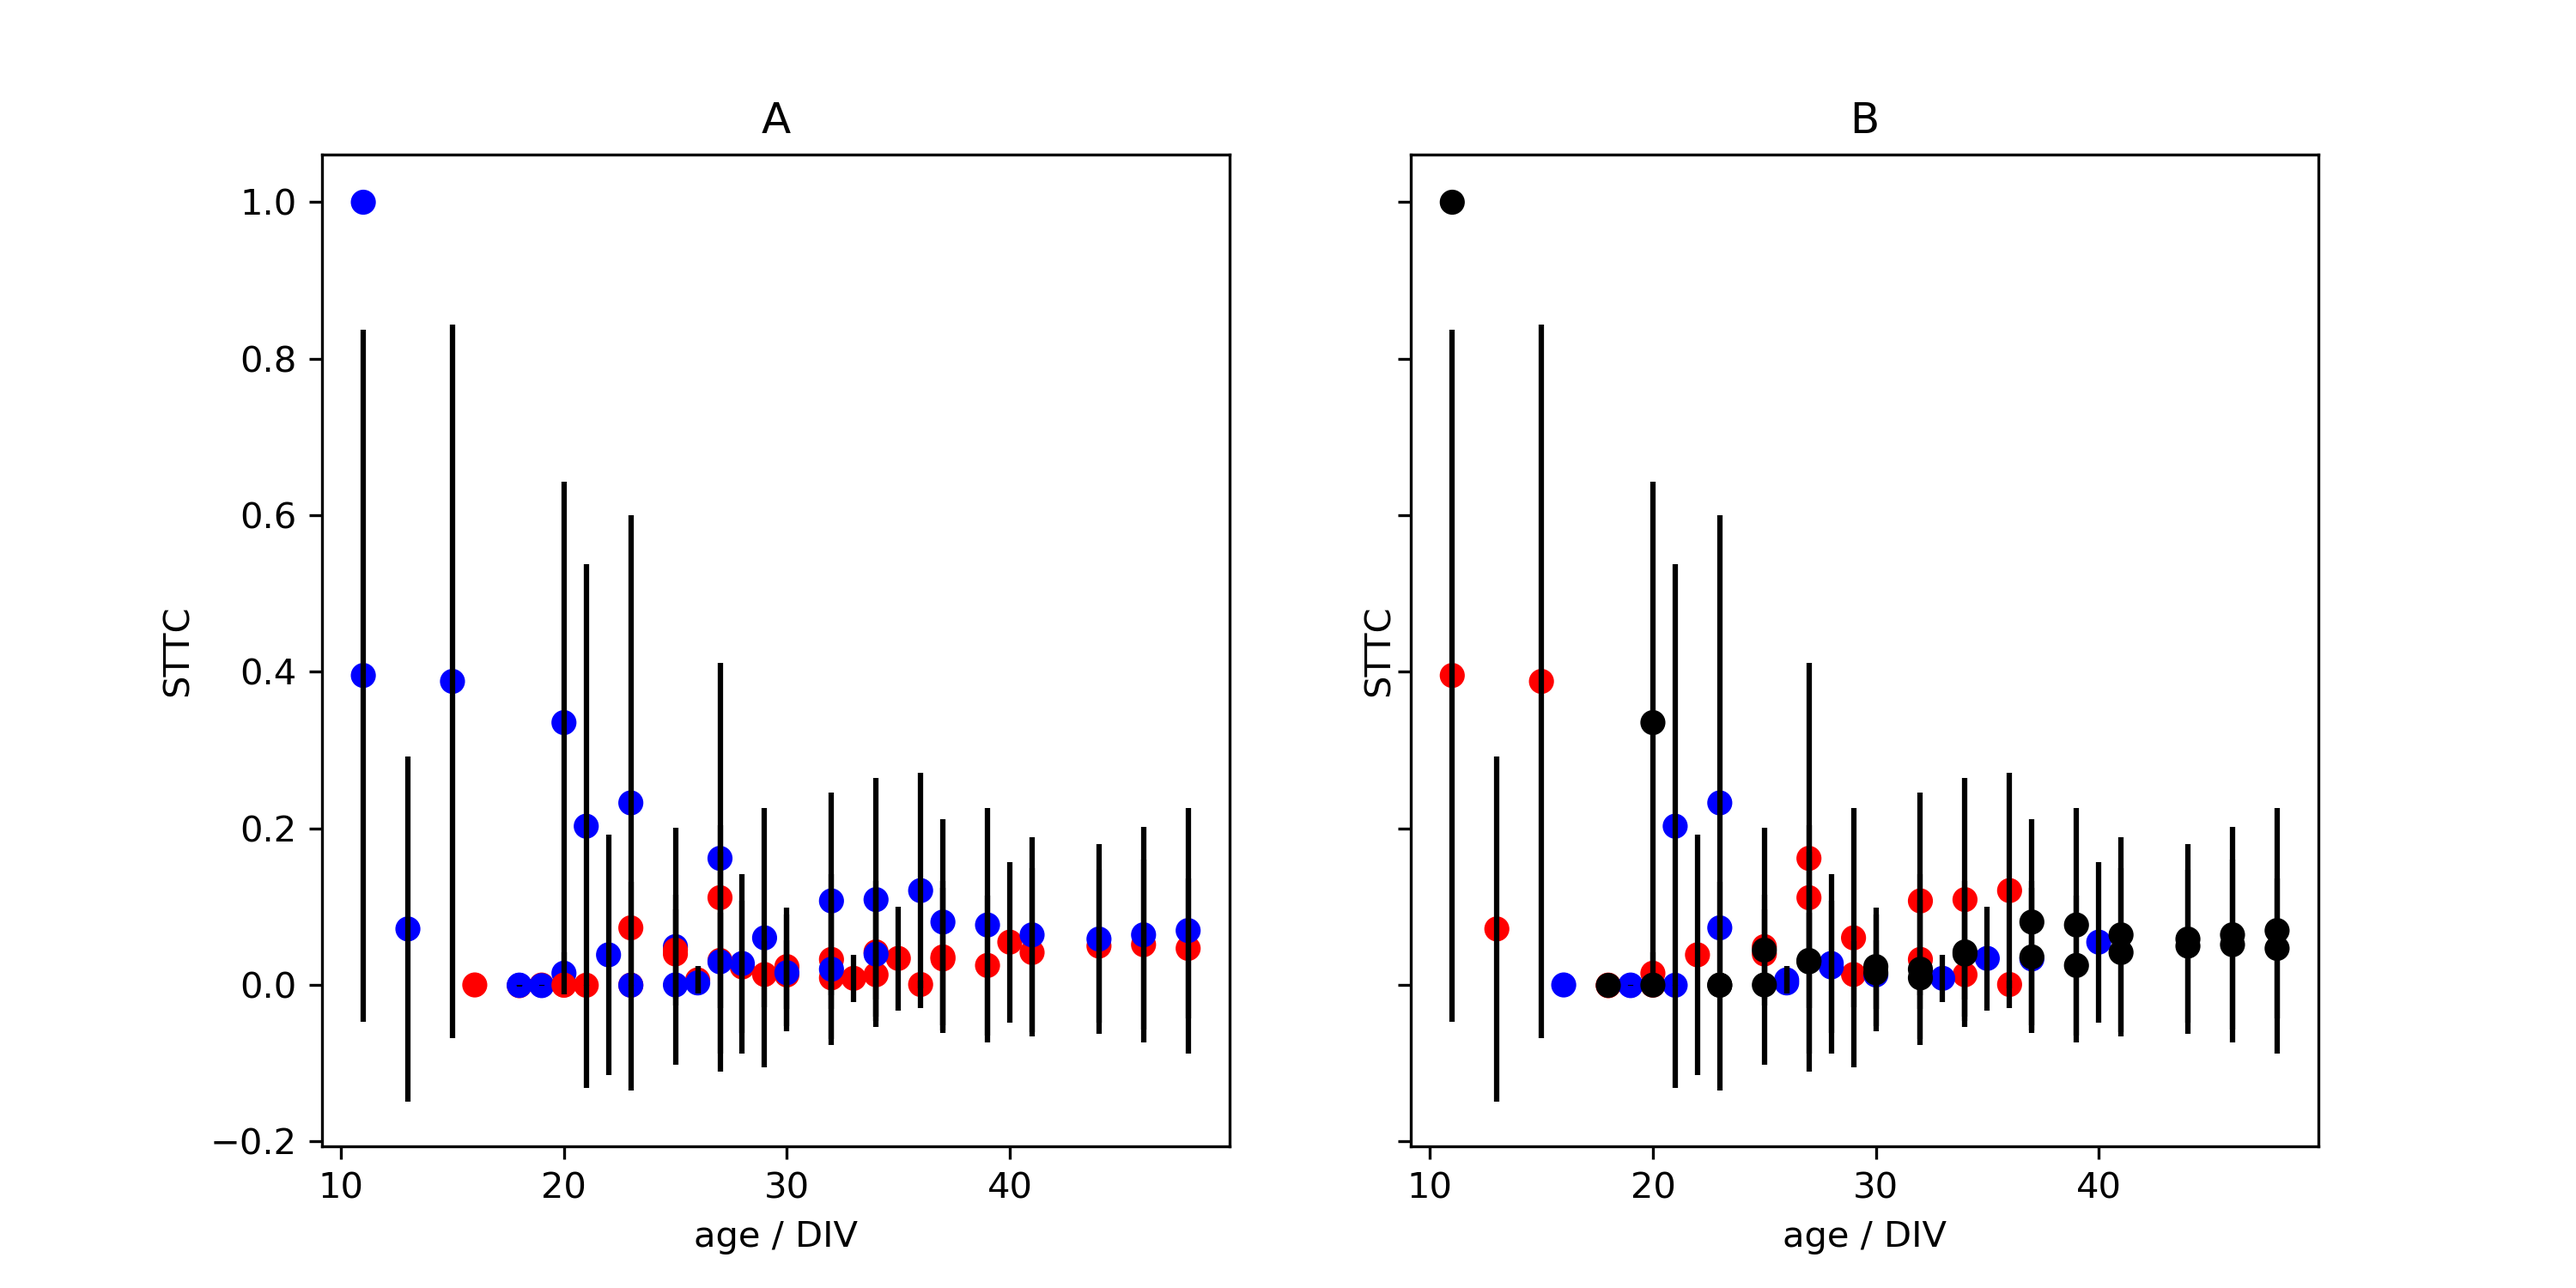
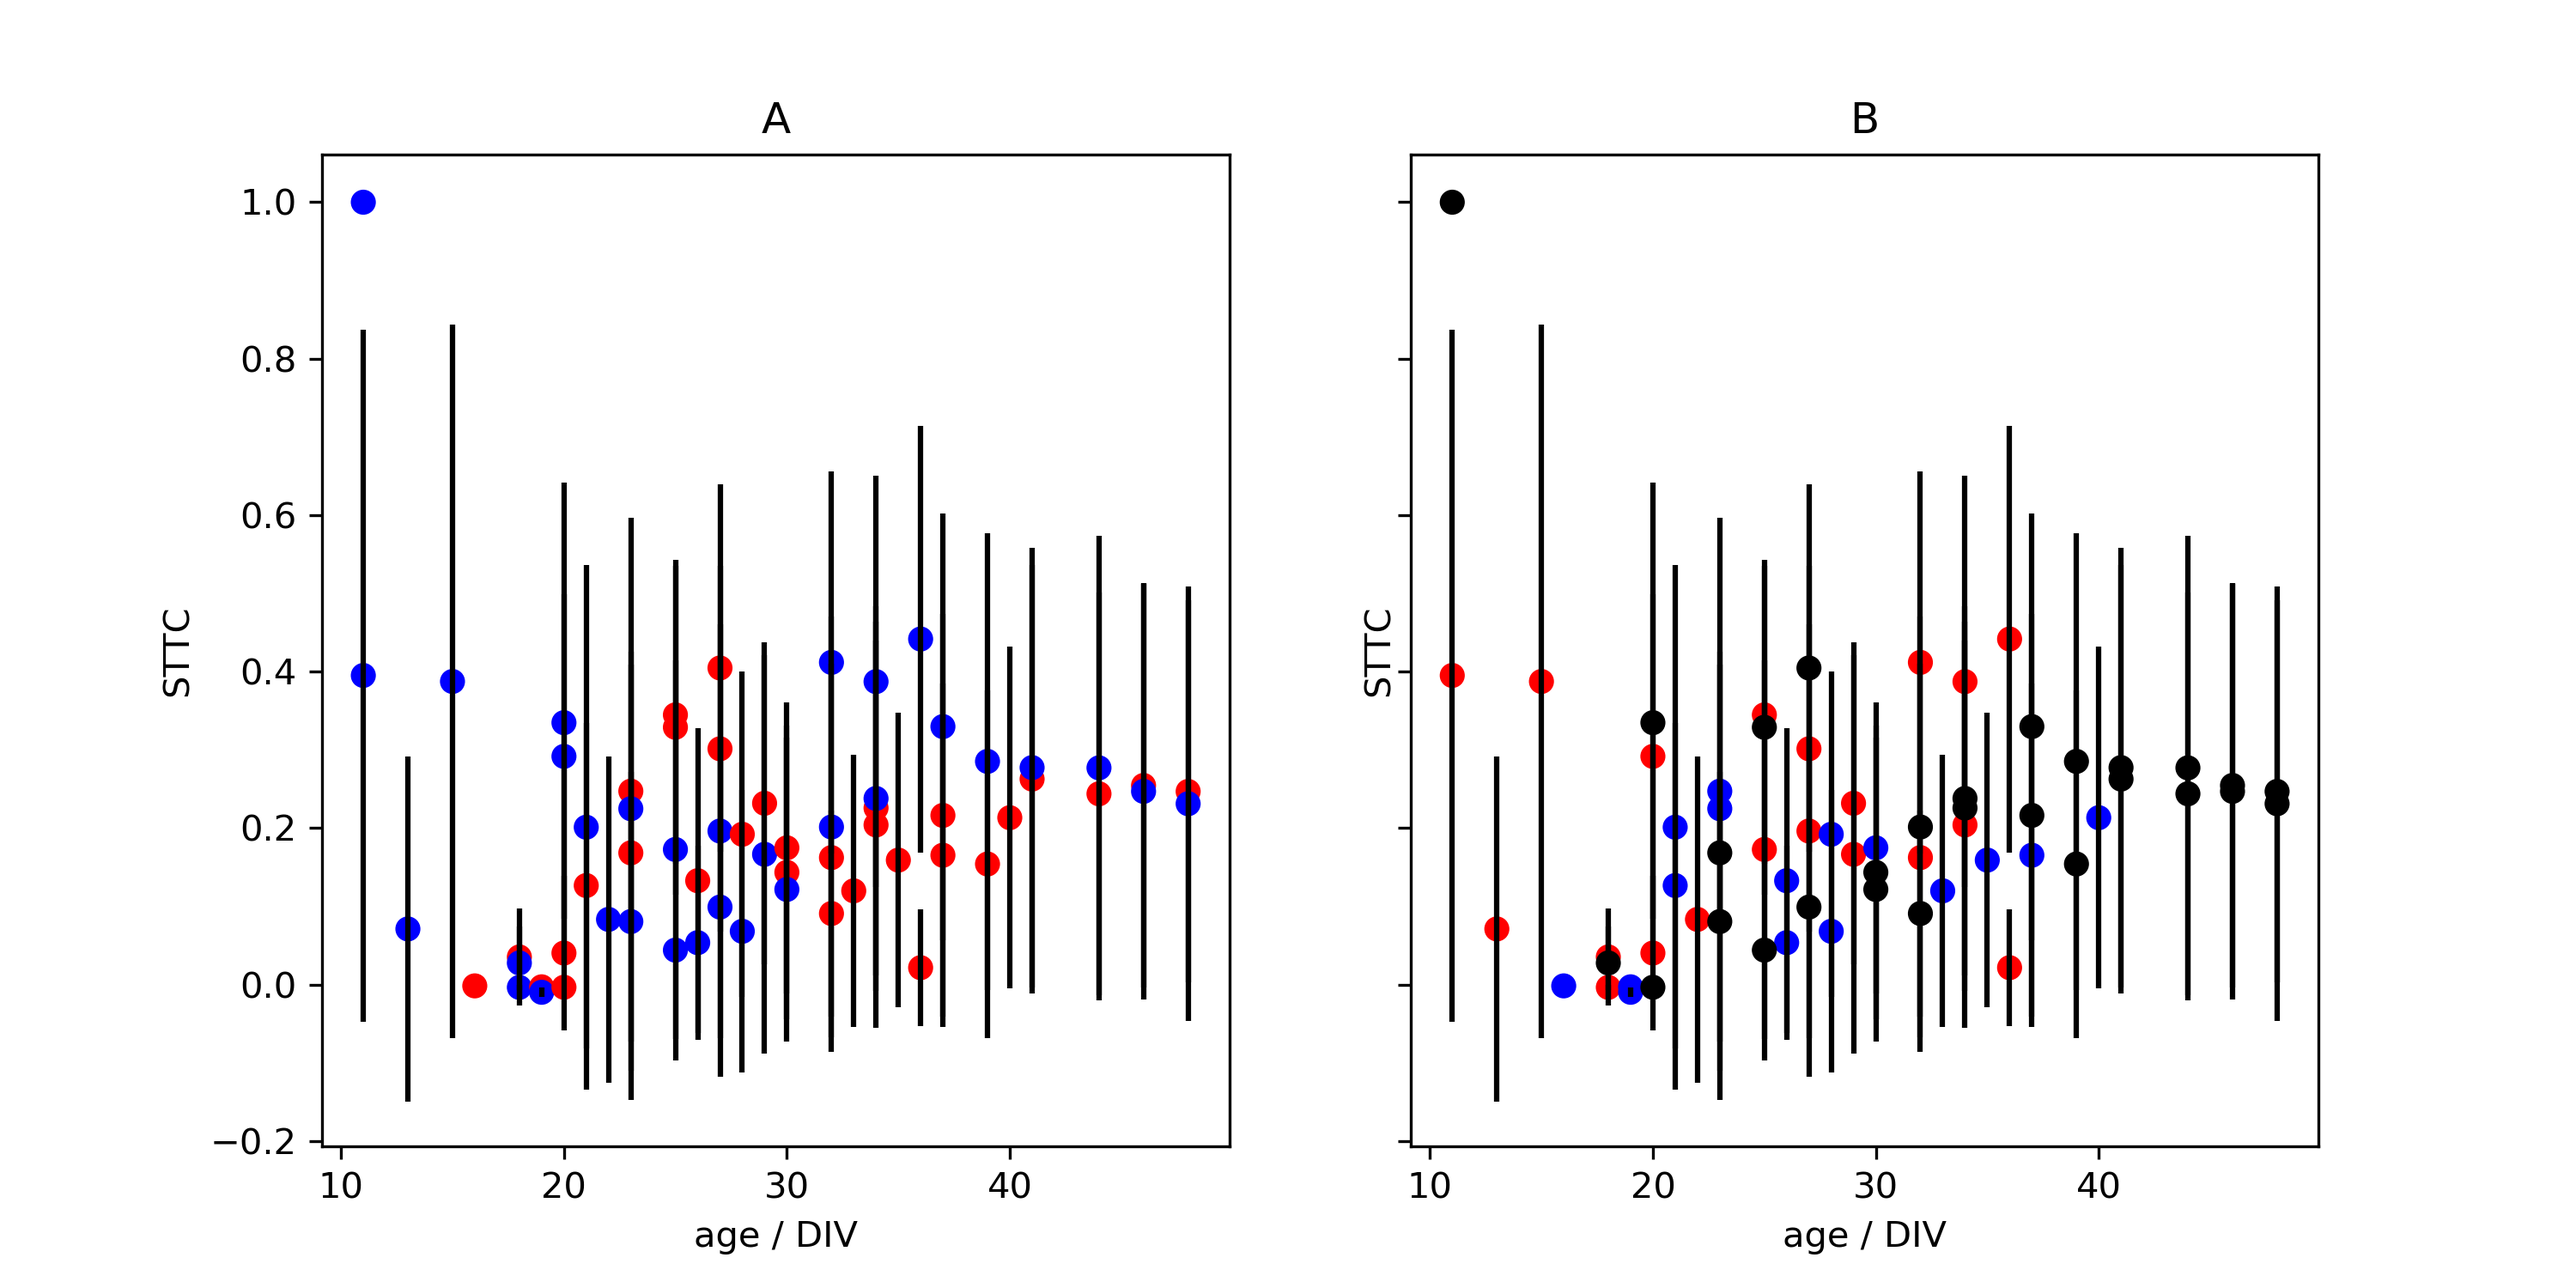
Use 50 ms synchronicity window

Changed region(s): [[0.62, 0.368, 0.899, 0.7973], [0.186, 0.368, 0.465, 0.7973]]

diff --git a/scripts/correlate_pairwise.py b/scripts/correlate_pairwise.py
@@ -37,8 +37,10 @@ for file in data_files:
     for i in range(len(trains)):
         for j in range(len(trains)):
             coeff = \
-                elephant.spike_train_correlation.spike_time_tiling_coefficient(trains[i],
-                                                                               trains[j])
+                elephant.spike_train_correlation.\
+                spike_time_tiling_coefficient(trains[i],
+                                              trains[j],
+                                              dt=0.05*qt.s)
             assert coeff <= 1, "STTC > 1"
             corr[i, j] = coeff
 
